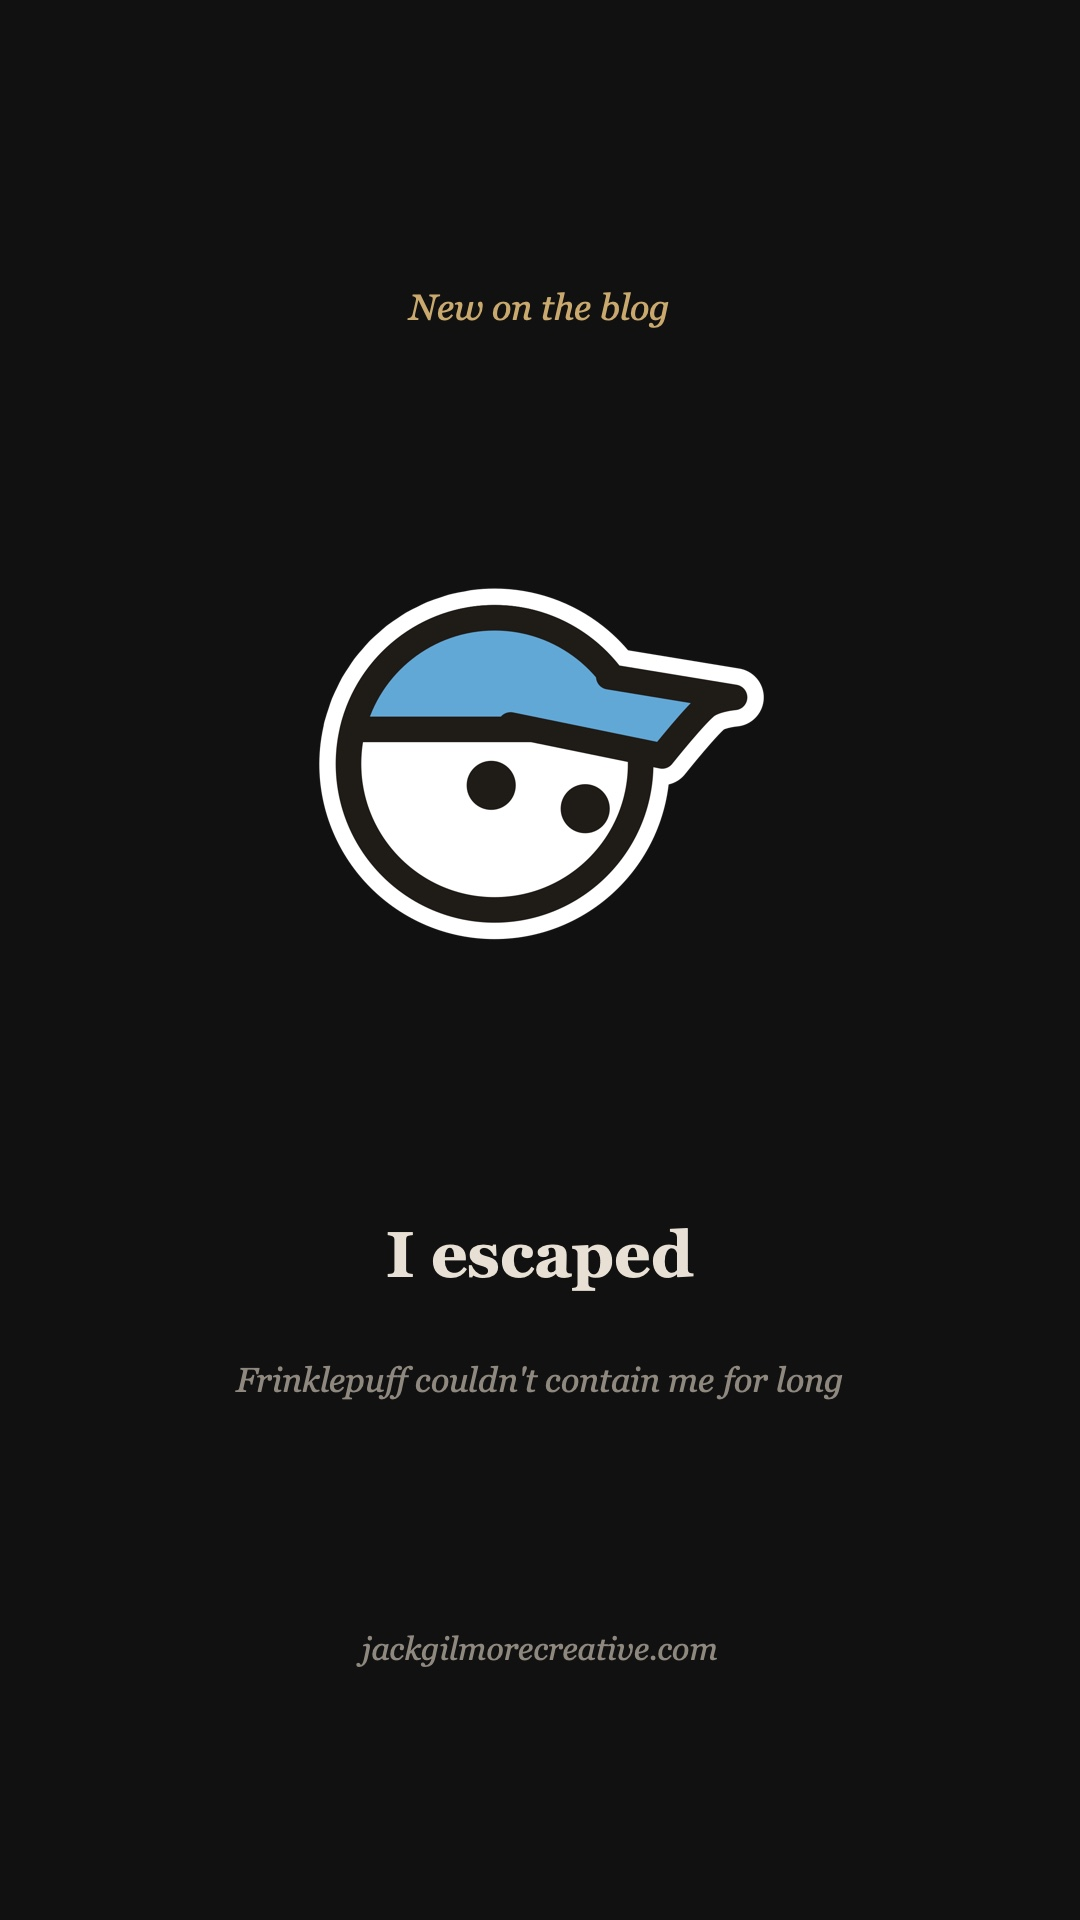
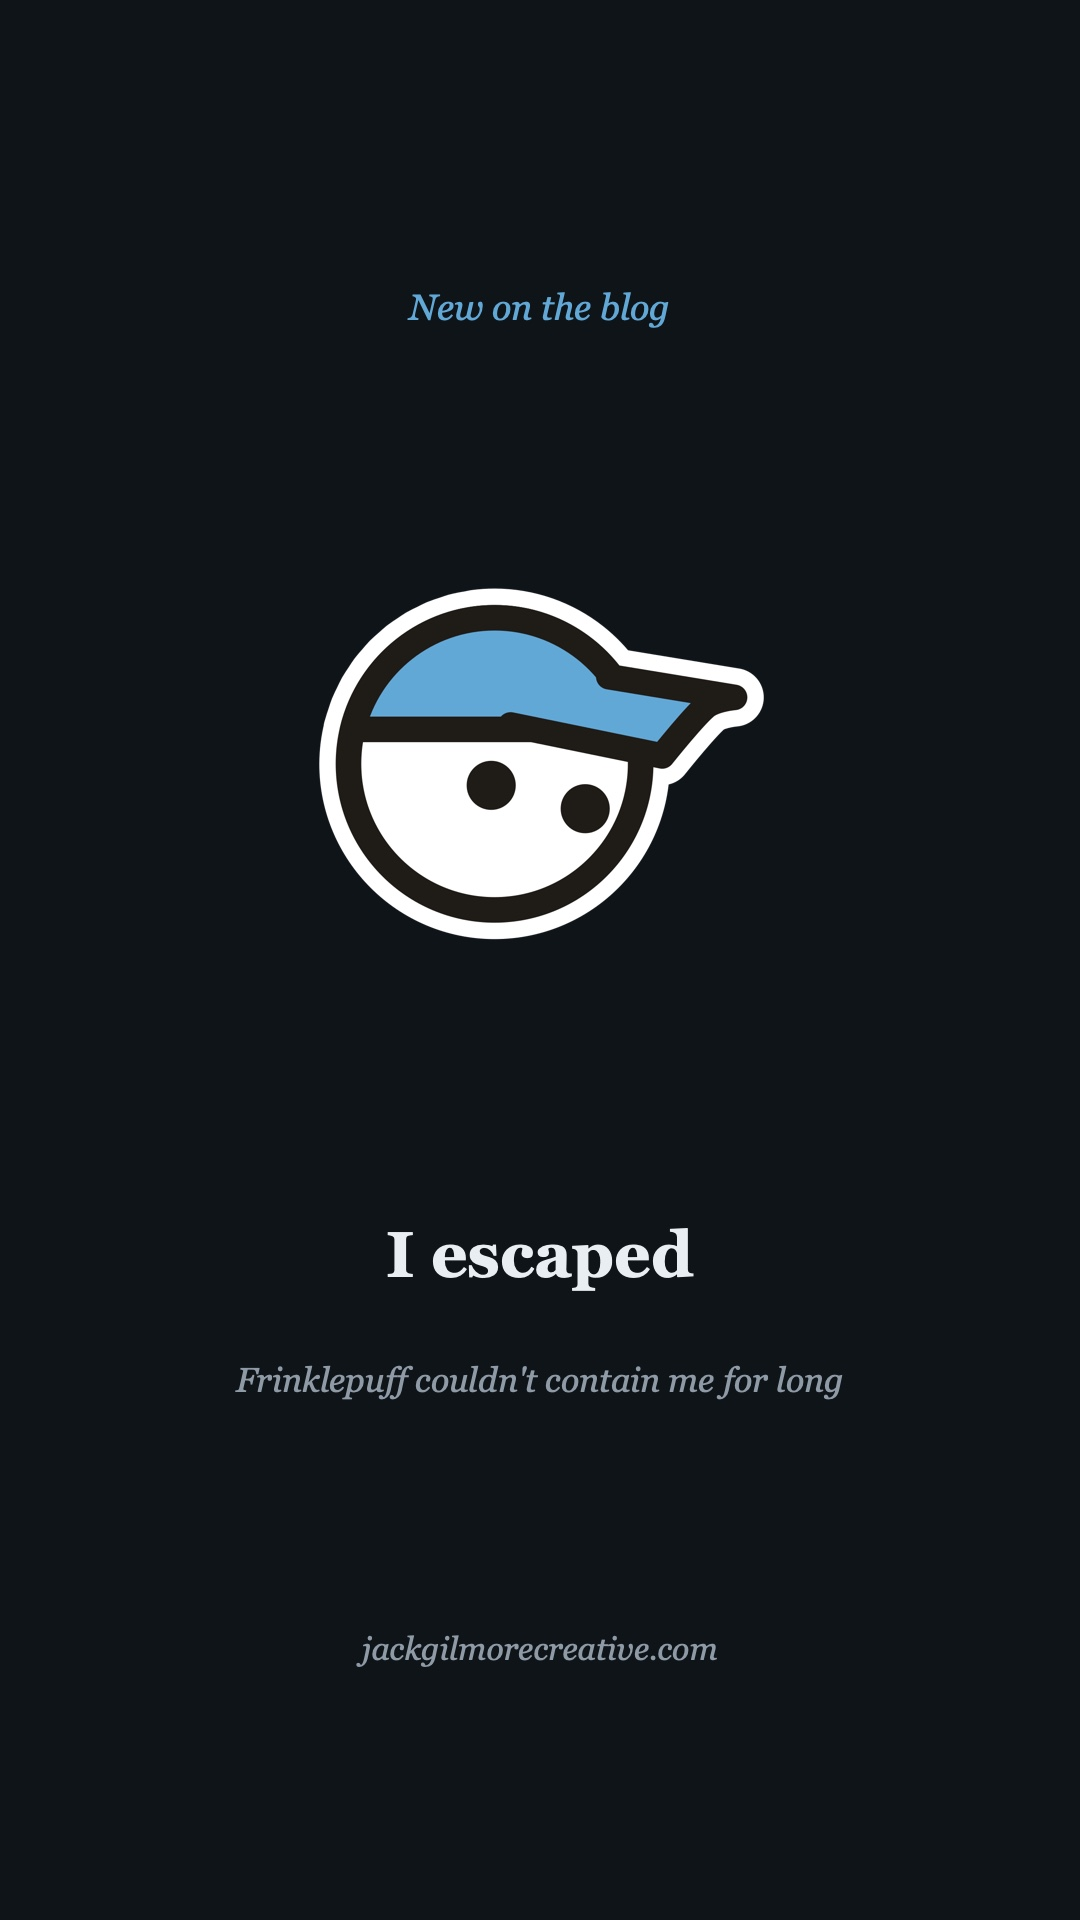
Update website

diff --git a/tools/slides.swift b/tools/slides.swift
@@ -5,9 +5,9 @@
 //               that, the rest is on the website), then a slide about the
 //               website (the site's card in dark colors, design/card-dark.png)
 //   story.jpg   phone-sized (1080×1920), for the story: design/story.png (a
-//               background you can make in Photoshop or Inkscape) with the
-//               post's picture, title and description where design/story.json
-//               says
+//               background you can make in Photoshop or Inkscape; without
+//               one, a plain one in look.json's colors) with the post's
+//               picture, title and description where design/story.json says
 //
 // Usage:
 //   slides SPEC.json           draw a post's pictures. SPEC is
@@ -23,6 +23,9 @@
 //                              folder DESIGN: story.png, story.json and the
 //                              guide (overwriting them)
 //   slides --guide DESIGN      redraw DESIGN/story-guide.png from story.json
+//
+// How they look (colors, text sizes, the words on them) comes from
+// design/look.json, which is meant to be edited by hand; see "THE LOOK" below.
 
 import AppKit
 
@@ -31,16 +34,68 @@ let tall: CGFloat = 1920                     // the story
 let margin: CGFloat = 110                    // left and right
 let top: CGFloat = 120                       // above the text
 let bottom: CGFloat = 160                    // below it, for the footer
-let textSize: CGFloat = 34
 let footSize: CGFloat = 30                   // the site at the bottom
 let pageSize: CGFloat = 44                   // the page numbers beside it, bigger to read
 
-// The website's dark theme (site.css): headings, text, accent, muted, background
-let ink = NSColor(srgbRed: 0.91, green: 0.878, blue: 0.831, alpha: 1)      // #e8e0d4
-let prose = NSColor(srgbRed: 0.831, green: 0.804, blue: 0.769, alpha: 1)    // #d4cdc4
-let gold = NSColor(srgbRed: 0.788, green: 0.663, blue: 0.431, alpha: 1)    // #c9a96e
-let faint = NSColor(srgbRed: 0.561, green: 0.533, blue: 0.498, alpha: 1)   // #8f887f
-let paper = NSColor(srgbRed: 0.067, green: 0.067, blue: 0.067, alpha: 1)   // #111111
+func warn(_ message: String) {
+    FileHandle.standardError.write((message + "\n").data(using: .utf8)!)
+}
+
+// "#62a8d6" as a color, or FALLBACK if it isn't one
+func color(_ hex: String?, _ fallback: NSColor) -> NSColor {
+    guard let hex = hex?.trimmingCharacters(in: CharacterSet(charactersIn: "# ")), hex.count == 6,
+          let n = UInt32(hex, radix: 16) else { return fallback }
+    return NSColor(srgbRed: CGFloat(n >> 16 & 255) / 255, green: CGFloat(n >> 8 & 255) / 255,
+                   blue: CGFloat(n & 255) / 255, alpha: 1)
+}
+
+
+// ============ THE LOOK ============
+// design/look.json, three groups, each optional (anything left out is as below):
+//   "colors"  background, title, text, accent (the label, date, rule, site),
+//             muted (page numbers, the story's description): "#rrggbb"
+//   "sizes"   text (the post's text), title, label, date: in pixels, on a
+//             1080-wide picture
+//   "words"   label (above the title; "" for none), story label (above the
+//             story's picture), last slide, link in bio
+// The defaults are the website's dark theme (site.css), the Hat Guy blue.
+
+var lookColors: [String: String] = [:]
+var lookSizes: [String: Double] = [:]
+var lookWords: [String: String] = [:]
+
+func loadLook(_ design: String) {
+    guard let data = FileManager.default.contents(atPath: design + "/look.json") else { return }
+    guard let json = (try? JSONSerialization.jsonObject(with: data)) as? [String: Any] else {
+        warn("design/look.json isn't valid JSON (a missing comma or quote?), so the standard look is used")
+        return
+    }
+    lookColors = json["colors"] as? [String: String] ?? [:]
+    lookSizes = (json["sizes"] as? [String: Any] ?? [:]).compactMapValues { ($0 as? NSNumber)?.doubleValue }
+    lookWords = json["words"] as? [String: String] ?? [:]
+}
+
+func lookColor(_ name: String, _ standard: String) -> NSColor {
+    let fallback = color(standard, .white)
+    if let given = lookColors[name], color(given, .clear) == .clear {
+        warn("design/look.json: \"\(given)\" (colors, \(name)) isn't a color like \"#62a8d6\"")
+        return fallback
+    }
+    return color(lookColors[name], fallback)
+}
+func lookSize(_ name: String, _ standard: CGFloat) -> CGFloat {
+    lookSizes[name].map { CGFloat($0) } ?? standard
+}
+func lookWord(_ name: String, _ standard: String) -> String {
+    lookWords[name] ?? standard
+}
+
+var paper: NSColor { lookColor("background", "#0f1419") }
+var ink: NSColor { lookColor("title", "#e9eef3") }
+var prose: NSColor { lookColor("text", "#cfd8e0") }
+var accent: NSColor { lookColor("accent", "#62a8d6") }
+var faint: NSColor { lookColor("muted", "#8e9aa6") }
+var textSize: CGFloat { lookSize("text", 38) }
 
 func georgia(_ size: CGFloat, bold: Bool = false, italic: Bool = false) -> NSFont {
     let name = bold ? (italic ? "Georgia-BoldItalic" : "Georgia-Bold") : (italic ? "Georgia-Italic" : "Georgia")
@@ -125,7 +180,7 @@ struct Box: Codable {
     var x: CGFloat, y: CGFloat, width: CGFloat, height: CGFloat
     var size: CGFloat? = nil         // text: the biggest it's set (smaller if it won't fit)
     var font: String? = nil          // text: a font's PostScript name (Font Book shows it)
-    var color: String? = nil         // text: "#1f1b16"
+    var color: String? = nil         // text: "#1f1b16"; left out, look.json's (title or muted)
     var align: String? = nil         // text: "left", "center" or "right"
     var radius: CGFloat? = nil       // the picture: its corners' rounding
     var rect: NSRect { NSRect(x: x, y: y, width: width, height: height) }
@@ -134,9 +189,9 @@ struct Box: Codable {
 struct StoryLayout: Codable {
     var picture = Box(x: 150, y: 370, width: 780, height: 780, radius: 20)
     var title = Box(x: 110, y: 1170, width: 860, height: 160,
-                    size: 64, font: "Georgia-Bold", color: "#e8e0d4", align: "center")
+                    size: 64, font: "Georgia-Bold", align: "center")
     var description = Box(x: 150, y: 1335, width: 780, height: 84,
-                          size: 34, font: "Georgia-Italic", color: "#8f887f", align: "center")
+                          size: 34, font: "Georgia-Italic", align: "center")
 }
 
 func storyLayout(_ design: String) -> StoryLayout {
@@ -144,21 +199,15 @@ func storyLayout(_ design: String) -> StoryLayout {
     do {
         return try JSONDecoder().decode(StoryLayout.self, from: data)
     } catch {
-        FileHandle.standardError.write("design/story.json: \(error); using the starter's layout\n".data(using: .utf8)!)
+        warn("design/story.json: \(error); using the starter's layout")
         return StoryLayout()
     }
 }
 
-func color(_ hex: String?, _ fallback: NSColor) -> NSColor {
-    guard let hex = hex?.trimmingCharacters(in: CharacterSet(charactersIn: "# ")), hex.count == 6,
-          let n = UInt32(hex, radix: 16) else { return fallback }
-    return NSColor(srgbRed: CGFloat(n >> 16 & 255) / 255, green: CGFloat(n >> 8 & 255) / 255,
-                   blue: CGFloat(n & 255) / 255, alpha: 1)
-}
-
 // TEXT set in BOX: as big as BOX.size, smaller (down to 60%) if that won't
-// fit, then cut short with "…"; centered up and down in the box
-func fit(_ text: String, in box: Box) {
+// fit, then cut short with "…"; centered up and down in the box. Its color is
+// the box's, or COLOR (from look.json) if the box doesn't give one
+func fit(_ text: String, in box: Box, color standard: NSColor) {
     guard !text.isEmpty else { return }
     let style = NSMutableParagraphStyle()
     style.alignment = box.align == "left" ? .left : box.align == "right" ? .right : .center
@@ -166,7 +215,7 @@ func fit(_ text: String, in box: Box) {
     let biggest = box.size ?? 40
     func attrs(_ size: CGFloat) -> [NSAttributedString.Key: Any] {
         [.font: NSFont(name: box.font ?? "Georgia", size: size) ?? georgia(size),
-         .foregroundColor: color(box.color, ink), .paragraphStyle: style]
+         .foregroundColor: color(box.color, standard), .paragraphStyle: style]
     }
     func height(_ s: String, _ size: CGFloat) -> CGFloat {
         ceil((s as NSString).boundingRect(with: NSSize(width: box.width, height: .greatestFiniteMagnitude),
@@ -185,13 +234,16 @@ func fit(_ text: String, in box: Box) {
                              options: [.usesLineFragmentOrigin, .truncatesLastVisibleLine], attributes: attrs(size))
 }
 
-// The starter background, kept plain: the dark paper, "New on the blog"
-// above the picture, and the website, small, at the bottom
+// The plain background, used when there's no design/story.png: the paper,
+// look.json's story label above the picture, and the website, small, at the
+// bottom
+func drawPlainBackground(site: String) {
+    centered(lookWord("story label", "New on the blog"), georgia(36, italic: true), accent, y: 280, width: 860)
+    centered(site, georgia(32, italic: true), faint, y: 1625, width: 860)
+}
+
 func starterBackground(site: String) -> NSBitmapImageRep {
-    slide(height: tall) {
-        centered("New on the blog", georgia(36, italic: true), gold, y: 280, width: 860)
-        centered(site, georgia(32, italic: true), faint, y: 1625, width: 860)
-    }
+    slide(height: tall) { drawPlainBackground(site: site) }
 }
 
 // The guide: a see-through layer to lay over story.png while designing it.
@@ -228,6 +280,7 @@ func guide(_ layout: StoryLayout) -> NSBitmapImageRep {
 let args = CommandLine.arguments
 if args.count > 2 && args[1] == "--starter" {
     let design = args[2]
+    loadLook(design)
     card = args.count > 3 ? NSImage(contentsOfFile: args[3]) : nil
     try FileManager.default.createDirectory(atPath: design, withIntermediateDirectories: true)
     try save(starterBackground(site: "jackgilmorecreative.com"), design + "/story.png", png: true)
@@ -260,6 +313,7 @@ struct Spec: Decodable {
 }
 
 let spec = try JSONDecoder().decode(Spec.self, from: Data(contentsOf: URL(fileURLWithPath: args[1])))
+loadLook(spec.design)
 card = NSImage(contentsOfFile: spec.card)
 
 // The post's picture, if it has one that loads
@@ -310,13 +364,21 @@ for match in numbers.matches(in: body.string, range: NSRange(location: 0, length
     body.replaceCharacters(in: NSRange(location: NSMaxRange(match.range(at: 1)), length: 1), with: ". ")
 }
 
-// The first slide starts with the title, the date and a short rule: how much
-// room that takes, measured with the same fonts it's drawn with
-let titleFont = georgia(54, bold: true)
-let dateFont = georgia(26, italic: true)
+// The first slide starts with the label ("BLOG", spaced out in capitals, like
+// the website's own label above a post's title), the title, the date and a
+// short rule: how much room that takes, measured with the same fonts it's
+// drawn with
+let label = lookWord("label", "Blog").uppercased()
+let labelAttrs: [NSAttributedString.Key: Any] = [.font: georgia(lookSize("label", 26), bold: true),
+                                                 .foregroundColor: accent,
+                                                 .kern: lookSize("label", 26) * 0.18]
+let labelHeight = label.isEmpty ? 0 : ceil((label as NSString).size(withAttributes: labelAttrs).height)
+let titleFont = georgia(lookSize("title", 56), bold: true)
+let dateFont = georgia(lookSize("date", 26), italic: true)
 let titleHeight = measure(spec.title, titleFont)
 let dateHeight = spec.date.isEmpty ? 0 : measure(spec.date, dateFont)
-let firstTop = top + titleHeight + (spec.date.isEmpty ? 0 : 18 + dateHeight) + 34 + 2 + 52
+let firstTop = top + (label.isEmpty ? 0 : labelHeight + 16) + titleHeight
+    + (spec.date.isEmpty ? 0 : 18 + dateHeight) + 34 + 2 + 52
 
 // Split the text into pages: a text container per slide, as many as it takes
 let storage = NSTextStorage(attributedString: body)
@@ -342,12 +404,19 @@ for (i, page) in pages.enumerated() {
     slides.append(slide {
         if i == 0 {
             var y = top
+            if !label.isEmpty {
+                let w = (label as NSString).size(withAttributes: labelAttrs).width
+                // The kerning adds space after the last letter too: centre without it
+                (label as NSString).draw(at: NSPoint(x: (side - w + lookSize("label", 26) * 0.18) / 2, y: y),
+                                         withAttributes: labelAttrs)
+                y += labelHeight + 16
+            }
             y += centered(spec.title, titleFont, ink, y: y)
             if !spec.date.isEmpty {
                 y += 18
-                y += centered(spec.date, dateFont, gold, y: y)
+                y += centered(spec.date, dateFont, accent, y: y)
             }
-            gold.setFill()
+            accent.setFill()
             NSRect(x: (side - 90) / 2, y: y + 34, width: 90, height: 2).fill()
         }
         let range = layout.glyphRange(for: page.0)
@@ -357,7 +426,7 @@ for (i, page) in pages.enumerated() {
         // Footer: the site, and where you are in the post
         let foot = side - 108
         (spec.site as NSString).draw(at: NSPoint(x: margin, y: foot),
-                                     withAttributes: [.font: georgia(footSize, italic: true), .foregroundColor: gold])
+                                     withAttributes: [.font: georgia(footSize, italic: true), .foregroundColor: accent])
         // On the same baseline as the site, though bigger
         let last = i == pages.count - 1 && cut
         let more = last ? "continued on the website" : "\(i + 1) / \(pages.count)"
@@ -378,9 +447,9 @@ slides.append(slide {
         y += h + 30
     }
     y += centered(cut ? "Read the rest of “\(spec.title)” at \(spec.site)"
-                      : "More writing, comics and animation at \(spec.site)",
+                      : "\(lookWord("last slide", "More writing, comics and animation at")) \(spec.site)",
                   georgia(34), prose, y: y, width: side - 2 * 140)
-    centered("Link in bio", georgia(28, italic: true), gold, y: y + 26)
+    centered(lookWord("link in bio", "Link in bio"), georgia(28, italic: true), accent, y: y + 26)
 })
 
 // ---- The story: the design's background, then the post in its boxes ----
@@ -390,6 +459,8 @@ let background = NSImage(contentsOfFile: spec.design + "/story.png")
 let story = slide(height: tall) {
     if let background = background {
         drawCropped(background, in: NSRect(x: 0, y: 0, width: side, height: tall))
+    } else {
+        drawPlainBackground(site: spec.site)
     }
     // The picture, cropped to its box; with none, Hat Guy (as favicon.svg
     // draws him, sticker border and all), smaller, in the middle of it
@@ -404,8 +475,8 @@ let story = slide(height: tall) {
         let s = min(frame.width, frame.height) * 0.6
         drawImage(hat, in: NSRect(x: frame.midX - s / 2, y: frame.midY - s / 2, width: s, height: s))
     }
-    fit(spec.title, in: boxes.title)
-    fit(spec.description, in: boxes.description)
+    fit(spec.title, in: boxes.title, color: ink)
+    fit(spec.description, in: boxes.description, color: faint)
 }
 
 // ---- Save them ----

diff --git a/garden/writing-a-book.html b/garden/writing-a-book.html
@@ -41,9 +41,9 @@
 <p>
 This website has the capability to host long-form content like books and scripts. The real issue is whether I can come up with something interesting to write and if it is actually worth my time on top of all my other creative work&hellip; maybe. I&rsquo;ll leave this note here in case I want to build on the idea.
 </p>
-<div id="outline-container-org494bc73" class="outline-2">
-<h2 id="org494bc73">Book Brainstorm</h2>
-<div class="outline-text-2" id="text-org494bc73">
+<div id="outline-container-orgf5ab474" class="outline-2">
+<h2 id="orgf5ab474">Book Brainstorm</h2>
+<div class="outline-text-2" id="text-orgf5ab474">
 <p>
 Nothing here currently
 </p>

diff --git a/writing/the-thoughts-of-trees.html b/writing/the-thoughts-of-trees.html
@@ -36,7 +36,7 @@
 <div class="prose-actions"><button class="share-button" type="button" data-share aria-label="Share" title="Share"></button></div>
 </header>
 
-<figure id="org4cd3896">
+<figure id="org7ff2380">
 <img src="media/the-thoughts-of-trees/misty.jpg" alt="A misty street in Brunswick">
 
 <figcaption><span class="figure-number">Figure 1: </span>A misty street in Brunswick</figcaption>

diff --git a/AGENTS.md b/AGENTS.md
@@ -56,9 +56,13 @@ something it teaches (theme, nav, publish, preview...).
   no API). Log in the `*cross-post*` buffer. Instagram fetches images by URL,
   so they must be pushed first: GitHub's 404 page gives "Only photo or video
   can be accepted as media type".
-- `design/story.png` + `story.json` (+ generated `story-guide.png`) are the
-  user-editable story design; `og.png`/`og.svg` the card. Changing them
-  redraws every post's pictures (`social/SLUG/key` holds the inputs' hash).
+- `design/look.json` (colors, sizes, words of all the Instagram pictures;
+  `icons.sh` also colors `card-dark.png` from it), `design/story.png`
+  (optional; plain background without it) + `story.json` (+ generated
+  `story-guide.png`) are the user-editable design; `og.png`/`og.svg` the
+  card. Changing them redraws every post's pictures (`social/SLUG/key`
+  holds the inputs' hash). The user edits these by hand (they removed AI
+  tooling from Emacs): keep them plain, and `SPC n w L` previews them.
 - `examples/` holds sample books and scripts that are never published;
   `SPC n w V` builds a throwaway copy with them at localhost:8001.
 
